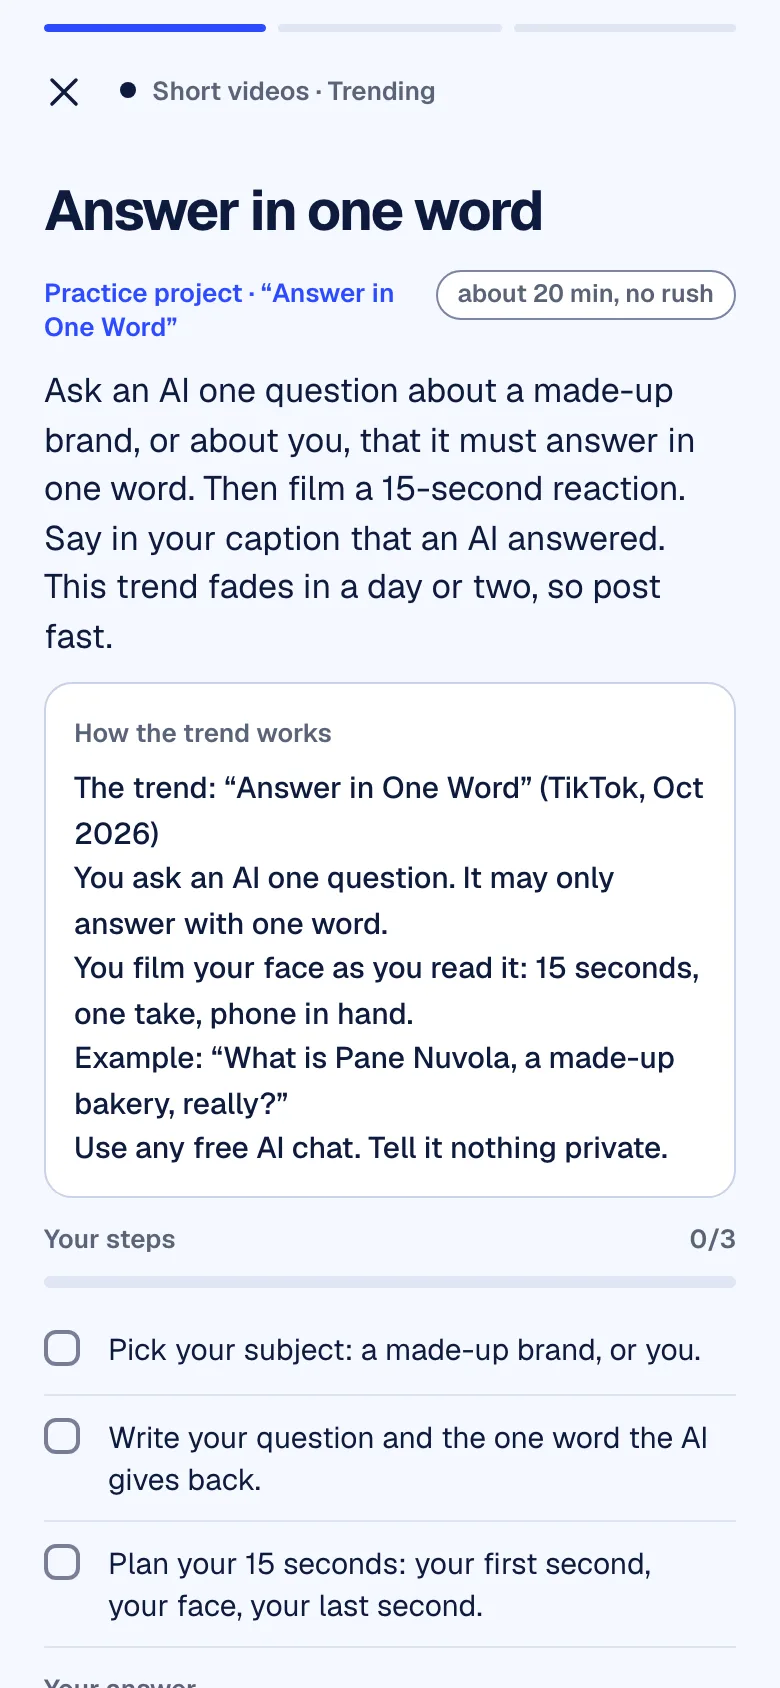
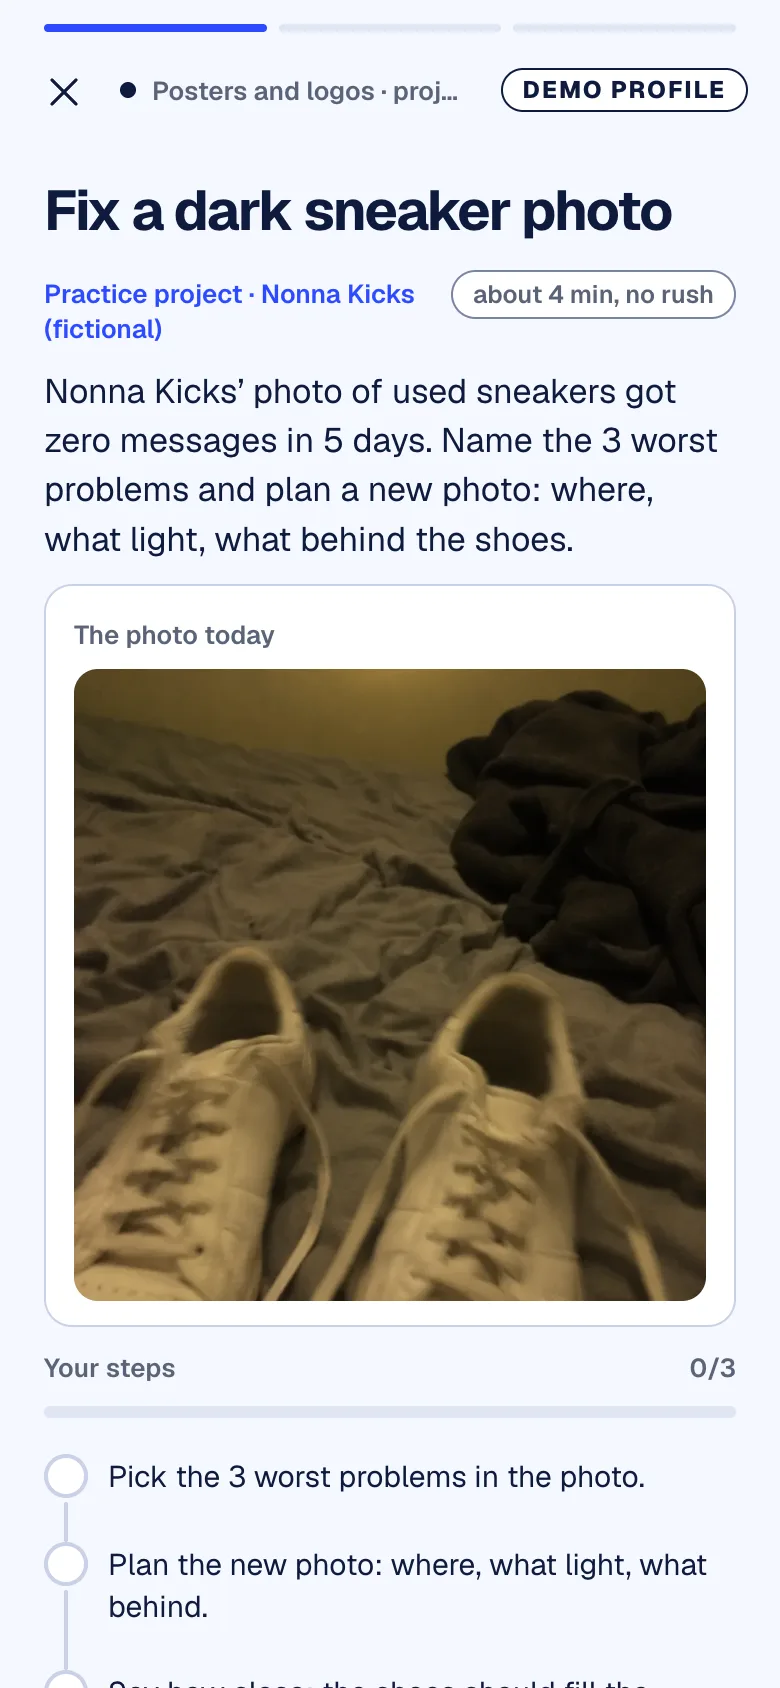
feat: new install screenshots (Projects, a project, KernCard), manifest labels say Slash helps and KernCard; sw kern-v36

diff --git a/public/sw.js b/public/sw.js
@@ -1,5 +1,5 @@
 // Offline support: pages network-first, assets cache-first. Bump CACHE to drop old caches on deploy.
-const CACHE = 'kern-v35';
+const CACHE = 'kern-v36';
 const SHELL = ['/', '/privacy/', '/terms/', '/about/','/manifest.webmanifest', '/theme-init.js', '/favicon.svg', '/icons/icon-192.png', '/brand/mark.svg', '/brand/mark-rev.svg',
   '/img/f/yourkern.webp', '/img/f/yourkern-512.webp', '/img/f/ai.webp', '/img/f/missions.webp',
   '/img/m/camilla.webp', '/img/m/guitar.webp', '/img/m/jacket.webp', '/img/m/lamp.webp', '/img/m/luca.webp', '/img/m/playlist-en.webp', '/img/m/playlist-it.webp', '/img/m/room.webp', '/img/m/sneakers.webp', '/img/m/story-en.webp', '/img/m/story-it.webp'];
